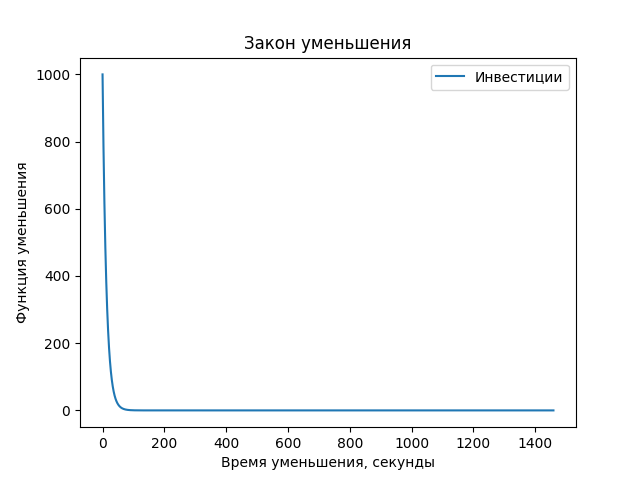
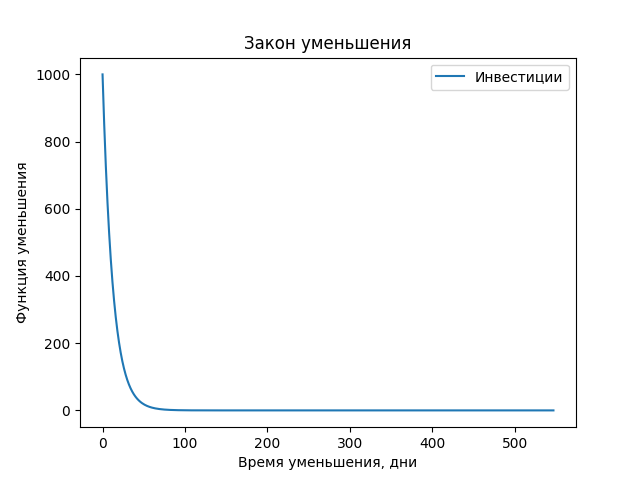
c

Changed region(s): [[0.2188, 0.9062, 0.875, 1.0], [0.1562, 0.25, 0.2812, 0.875], [0.1562, 0.1875, 0.1875, 0.2188]]

diff --git a/lab_1_task2.py b/lab_1_task2.py
@@ -4,7 +4,7 @@ import matplotlib.pyplot as plt
 
 n_0 = 1000
 k = 0.08
-t_0 = 4*365
+t_0 = 1.5*365
 t = np.arange(0, t_0, 1)
 
 print("Закон изменения инвестиций: v = 0.08 * n,\nгде v - скорость, n - инвестируемые в данный момент времени средства, k - коэфицент пропорциональности.")
@@ -18,9 +18,8 @@ n_t = odeint(investment_function, n_0, t)
 
 print(n_t)
 
-
 plt.plot(t, n_t[:,0], label="Инвестиции")
-plt.xlabel("Время уменьшения, секунды")
+plt.xlabel("Время уменьшения, дни")
 plt.ylabel("Функция уменьшения")
 plt.title("Закон уменьшения")
 plt.legend()
